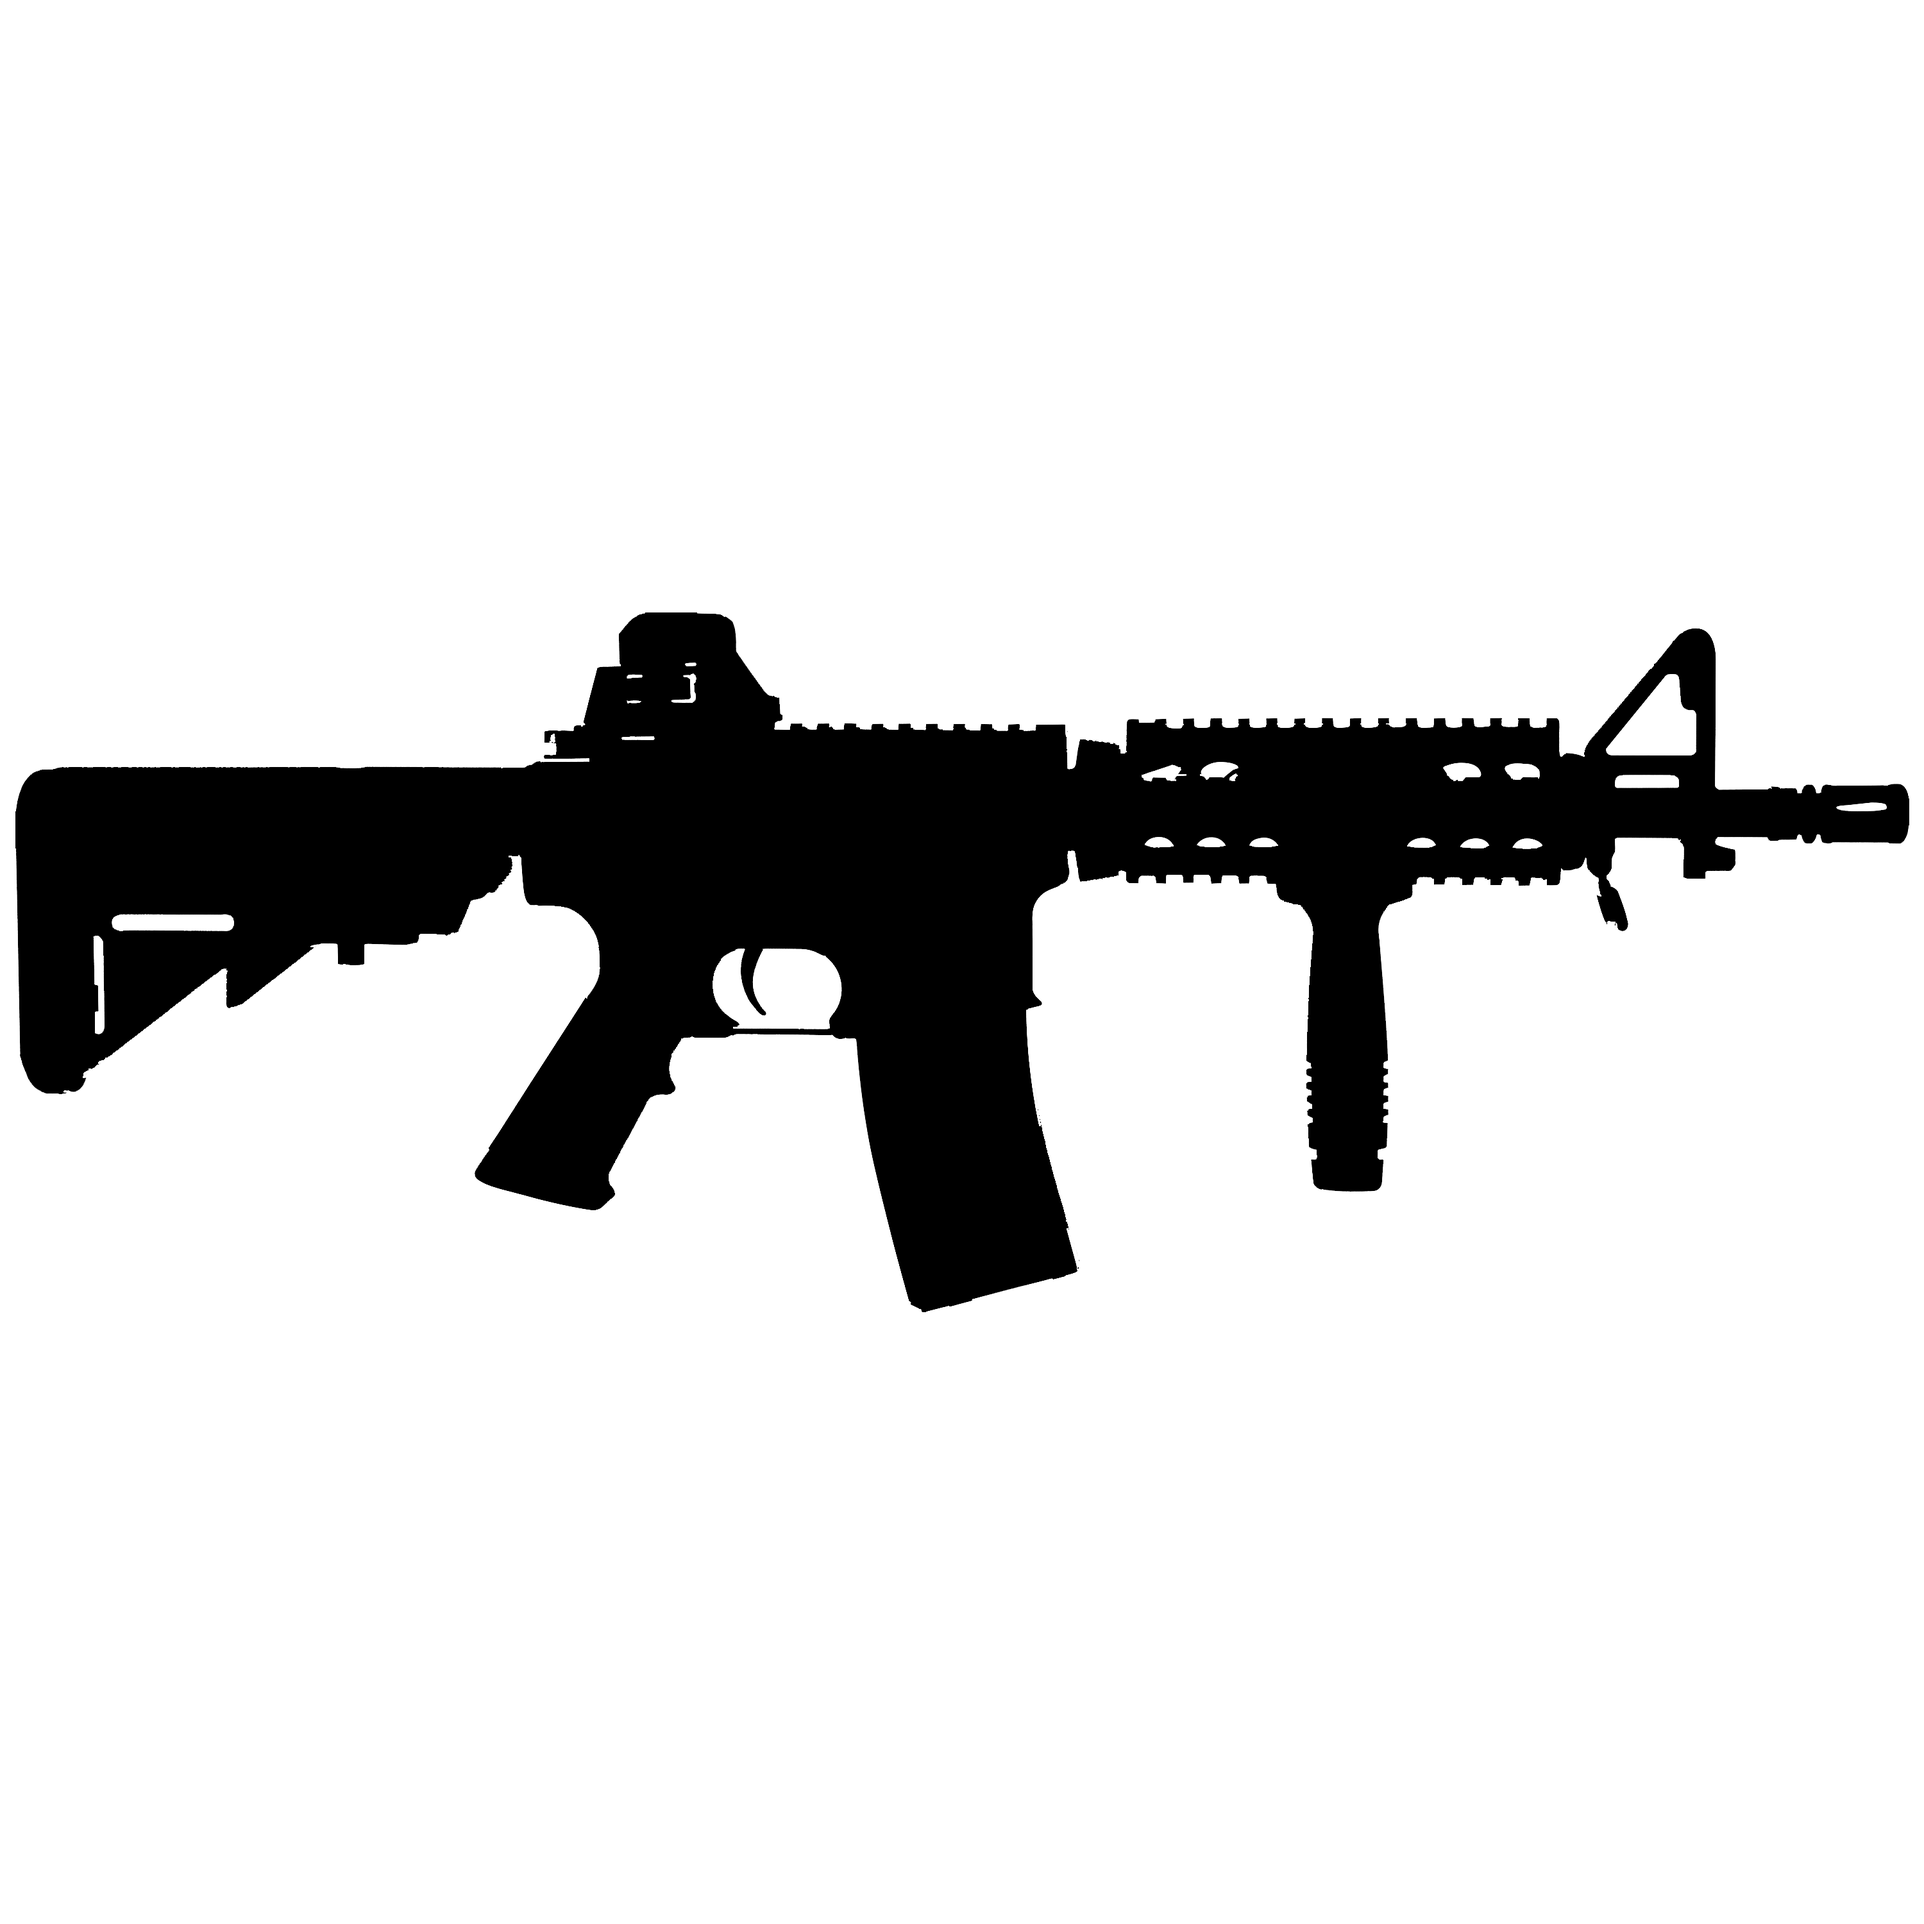
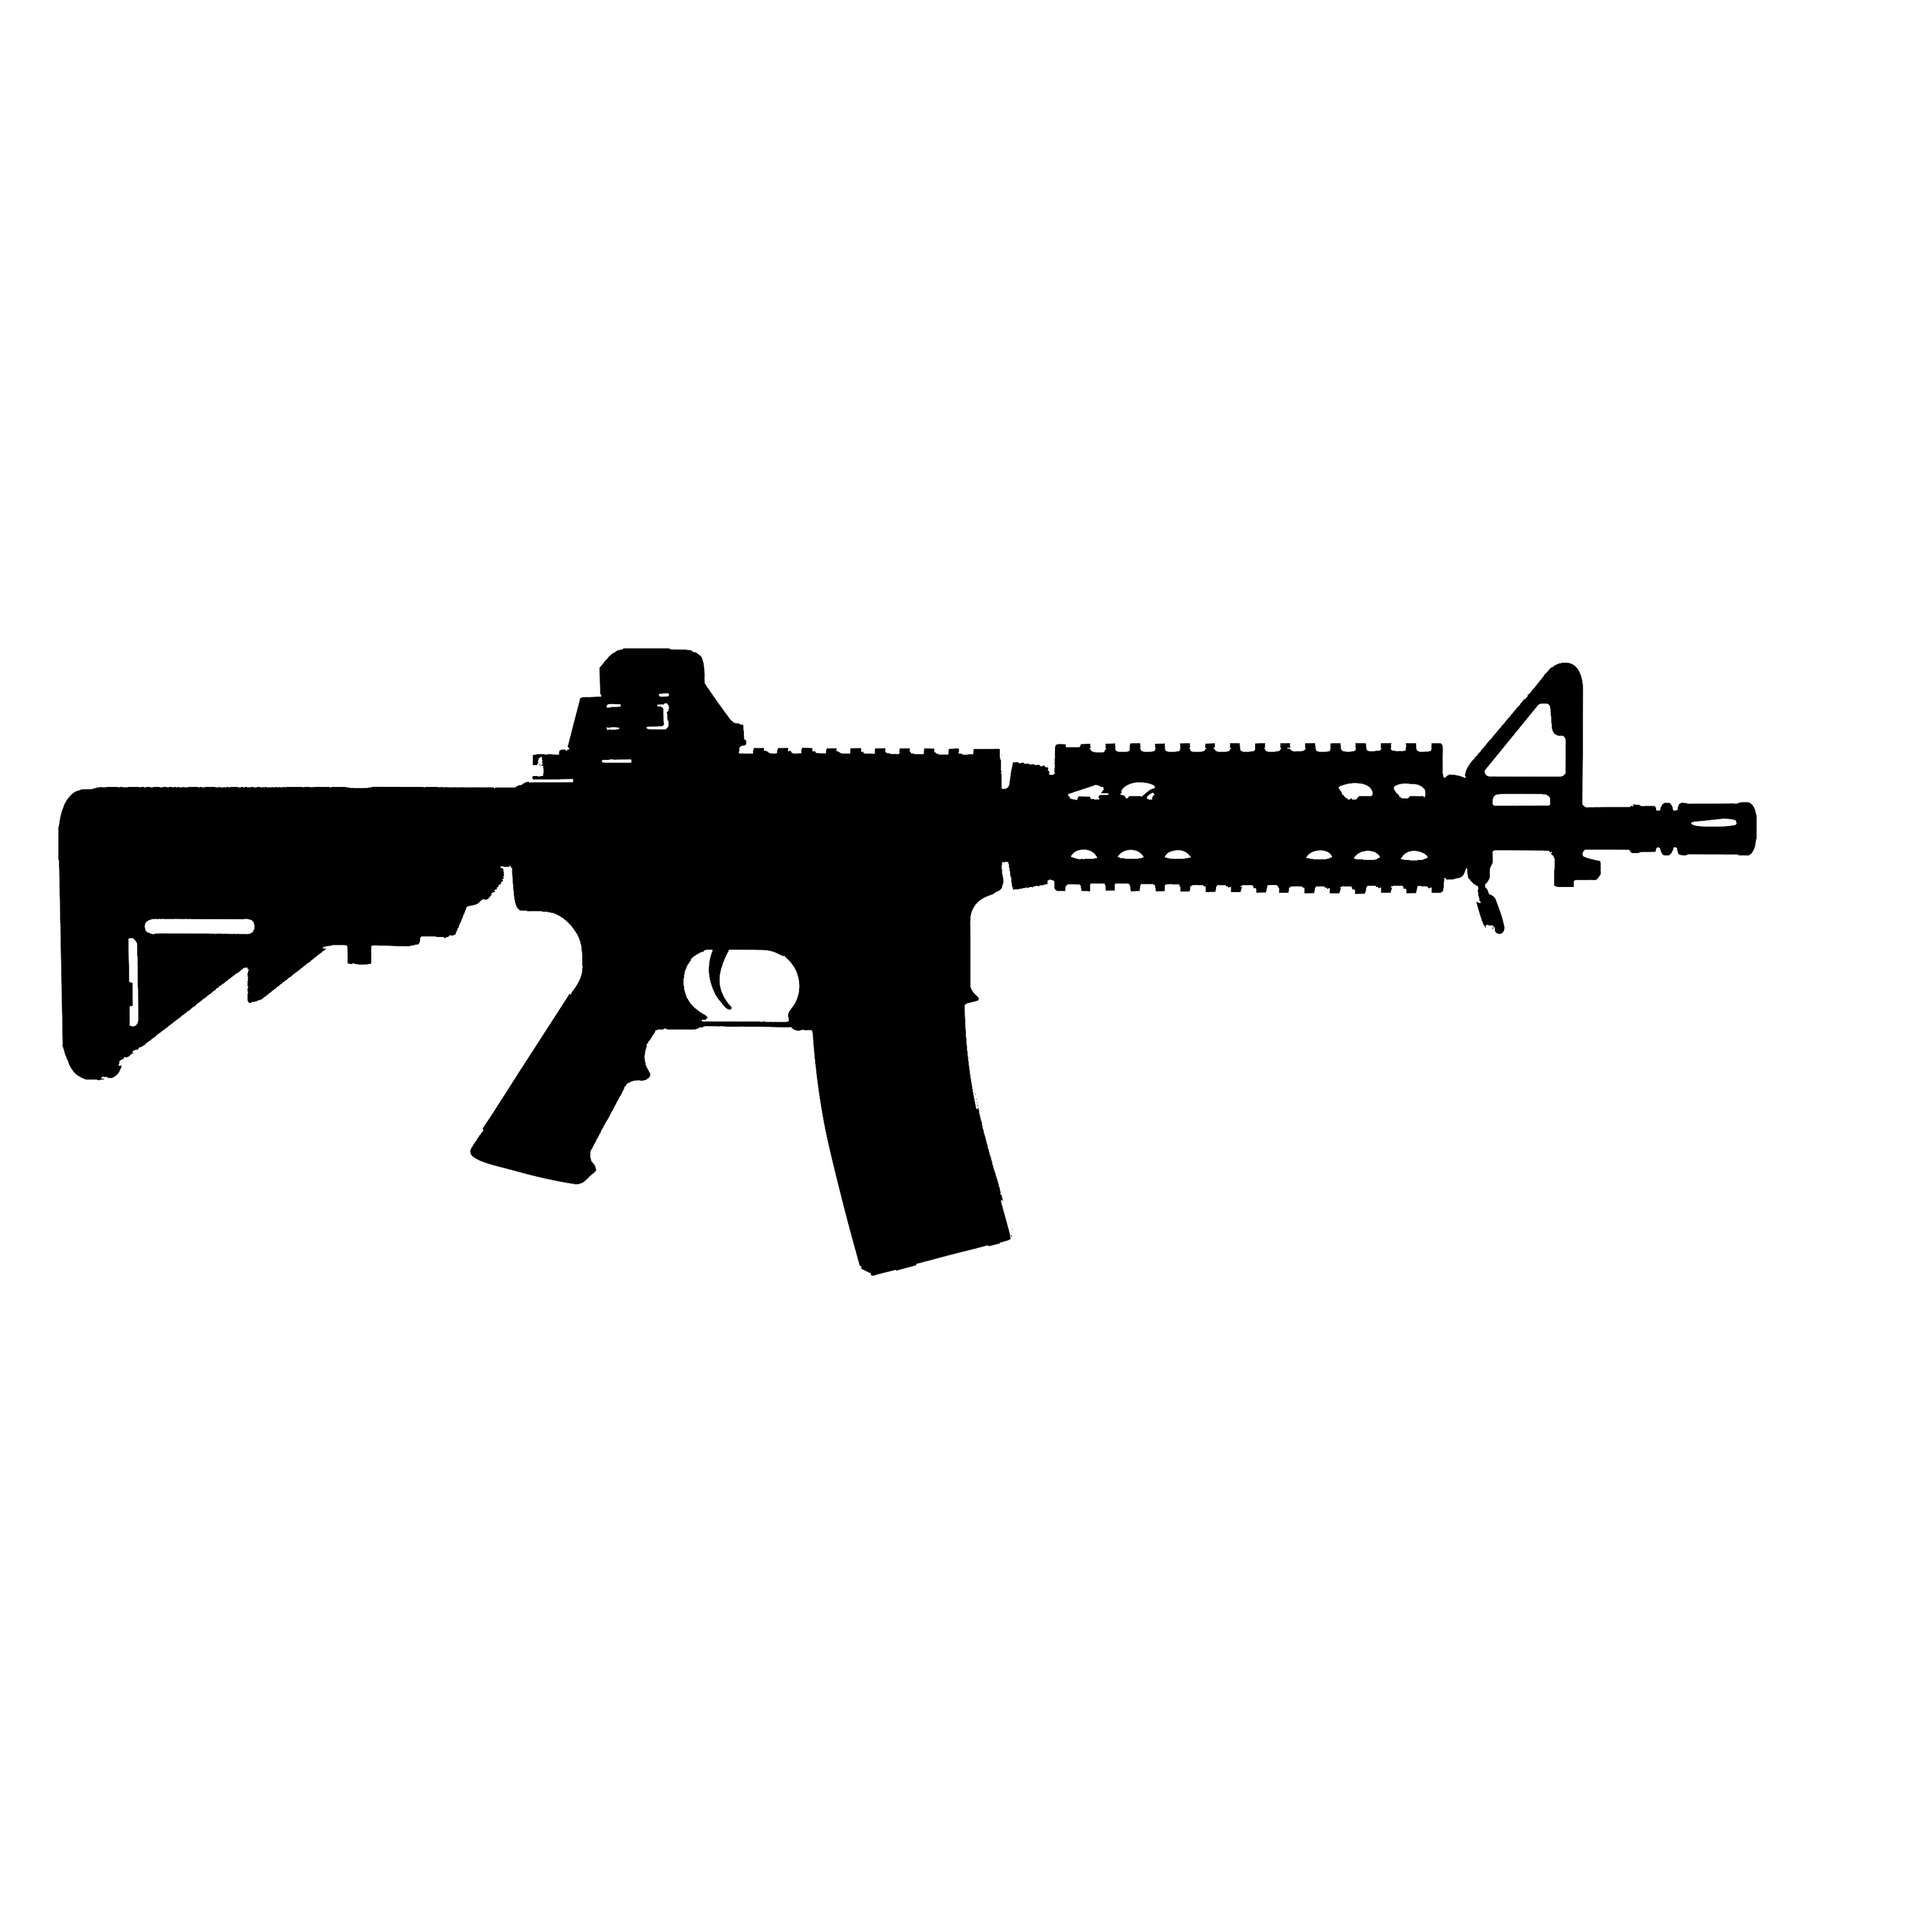
Basic setup for Primary Weapon implemented

Changed region(s): [[0.248, 0.31, 0.992, 0.682], [0.0, 0.372, 0.31, 0.589]]

diff --git a/index.php b/index.php
@@ -59,7 +59,28 @@
                     <!-- Buttons End -->
                 </div>
                 <div id="primaryMenu">
-                    <img src="images/backgrounds/backgroundM4A1.png" alt="Background Soldier" class="main_Image">
+                    <img src="images/backgrounds/backgroundM4A1.png" alt="Background Soldier" class="main_Image" style="transform: translate(0%,-25%);">
+
+                    <!-- Buttons Start -->
+                    <button type="button" class="main_SelectorButton" onclick="expandMenu(this,'frontGuardMenuFull')" id="FrontGuardMenu" style="left: 62%; top: 14%;" data-menustatus="closed" data-name="FRONT">FRONT</button>
+                    <div id="frontGuardMenuFull" style="display: none;">
+                        <button type="button" class="main_SelectorButton" onclick="openSelectionMenu(this);" id="Side Mount" style="left: 54.5%; top: 14%;" data-tooltip="No Selection">SIDE MNT</button>
+                        <button type="button" class="main_SelectorButton" onclick="openSelectionMenu(this);" id="Under Mount" style="left: 62%; top: 21.5%;" data-tooltip="No Selection">UNDR MNT</button>
+                    </div>
+
+                    <button type="button" class="main_SelectorButton" onclick="expandMenu(this,'magazineMenuFull')" id="MagazineMenu" style="left: 44%; top: 31%;" data-menustatus="closed" data-name="MAG">MAG</button>
+                    <div id="magazineMenuFull" style="display: none;">
+                        <button type="button" class="main_SelectorButton" onclick="openSelectionMenu(this);" id="Low-Cap Magazine" style="left: 36.5%; top: 23.5%;" data-tooltip="No Selection">LOW CAP</button>
+                        <button type="button" class="main_SelectorButton" onclick="openSelectionMenu(this);" id="Mid-Cap Magazine" style="left: 44%; top: 23.5%;" data-tooltip="No Selection">MID CAP</button>
+                        <button type="button" class="main_SelectorButton" onclick="openSelectionMenu(this);" id="High-Cap Magazine" style="left: 51.5%; top: 23.5%;" data-tooltip="No Selection">HIGH CAP</button>
+                    </div>
+
+                    <button type="button" class="main_SelectorButton" onclick="openSelectionMenu(this);" id="Sight" style="left: 39%; top: 6.5%;" data-tooltip="No Selection">SIGHT</button>
+
+                    <button type="button" class="main_SelectorButton" onclick="openSelectionMenu(this);" id="Muzzle" style="left: 85%; top: 14%;" data-tooltip="No Selection">MZZLE</button>
+
+                    <button type="button" class="main_SelectorButton" onclick="openSelectionMenu(this);" id="Stock" style="left: 10%; top: 14%;" data-tooltip="No Selection">STOCK</button>
+                    <!-- Buttons End -->
                 </div>
                 <div id="secondaryMenu">
                     <h1>Secondary Weapons are not implemented yet!</h1>
